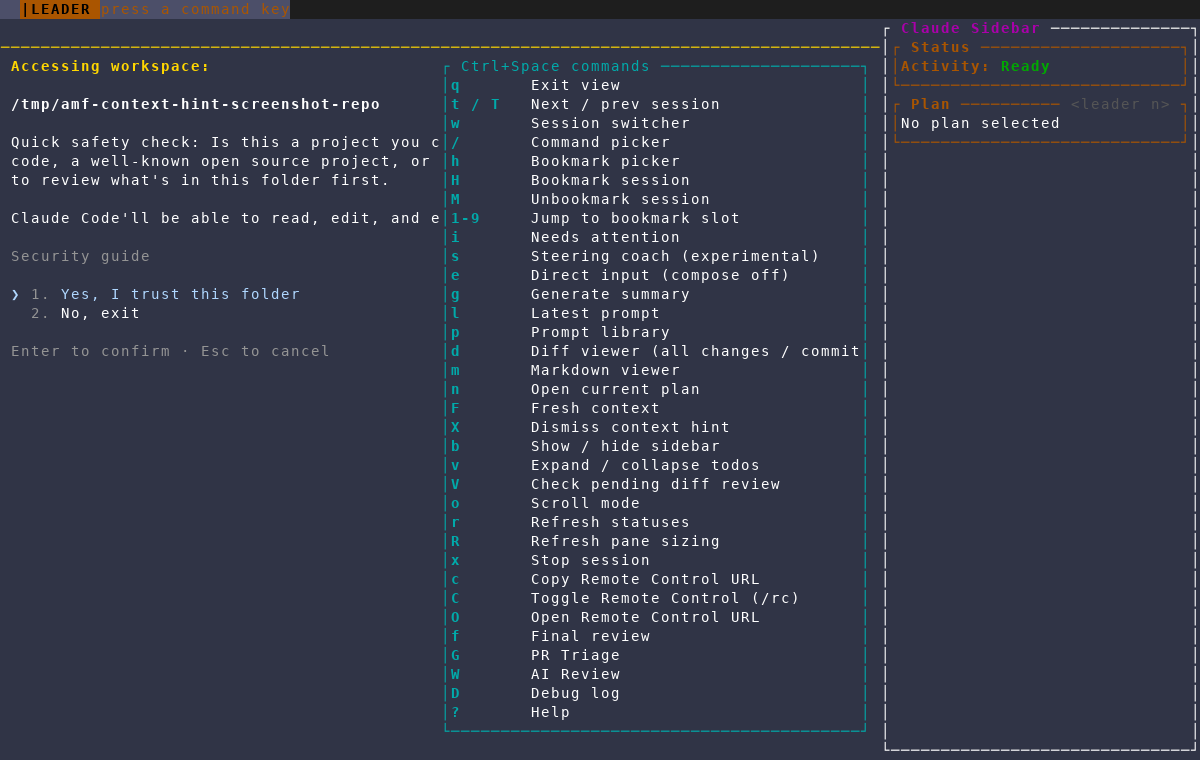
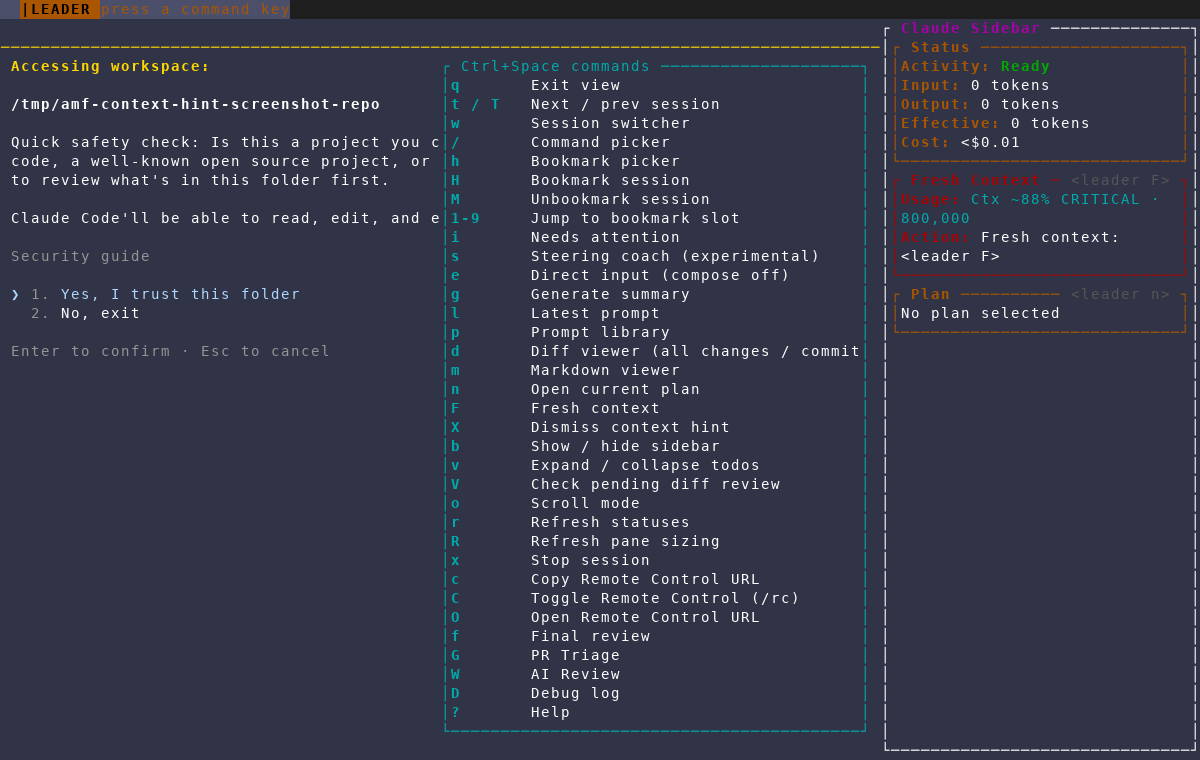
docs: replace context hint screenshots

diff --git a/docs/screenshots/context-hint/README.md b/docs/screenshots/context-hint/README.md
@@ -1,11 +1,14 @@
 # Context-pressure hint
 
-These captures show the context-pressure feature's new leader commands and
-fresh-session composer in an isolated `120x40` AMF screenshot instance.
+These captures show the context-pressure feature's sidebar item, new leader
+commands, and fresh-session composer in an isolated `120x40` AMF screenshot
+instance.
 
+- `sidebar-warning.png` shows the selected session's `Fresh Context` item,
+  critical usage, and `<leader F>` action.
 - `leader-menu.png` shows `F Fresh context` and `X Dismiss context hint`.
-- `fresh-context-composer.png` shows the editable fresh-context handoff
-  dialog.
+- `fresh-context-composer.png` shows the generated editable continuation
+  prompt.
 
-The scratch harness did not have warning-level live context telemetry, so the
-warning-only sidebar section correctly remained hidden in this run.
+The capture uses synthetic warning-level telemetry injected only for this
+throwaway screenshot run; the generated transcript was removed before cleanup.
